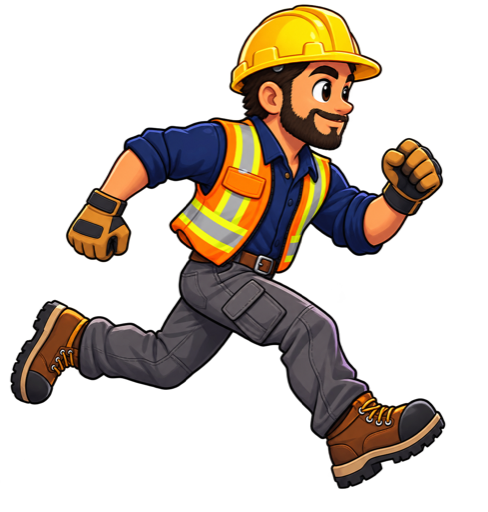
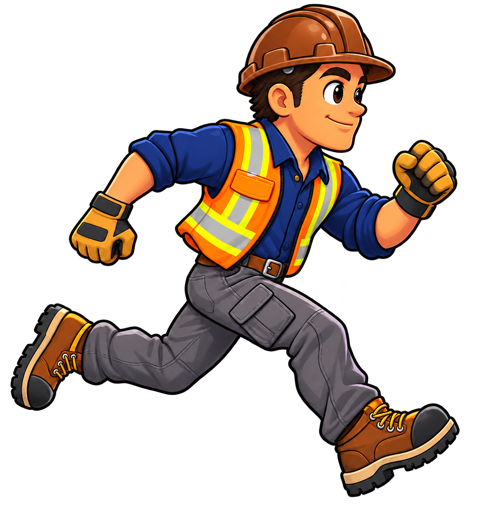
art: update Mr. BB appearance

Changed region(s): [[0.0, 0.0, 0.9529, 0.9688]]

diff --git a/art/IMAGEGEN-PROMPTS.md b/art/IMAGEGEN-PROMPTS.md
@@ -4,11 +4,15 @@ Both assets were generated as original artwork for Mr. BB. No Nintendo or Mario 
 
 ## `assets/mr-bb.png`
 
-Mode: `stylized-concept`
+Initial mode: built-in `stylized-concept`
+Current revision modes: built-in `precise-object-edit`, then built-in `background-extraction`
 
 - Generated: 2026-08-31 with OpenAI image generation through Codex
[1 lines of base64/hex data omitted]
+- Revised: 2026-08-31 — clean-shaven face and brown hard hat
[1 lines of base64/hex data omitted]
 - Project usage: included by the project owner under this repository's MIT license
+
+### Initial generation prompt
 
 ```text
 Use case: stylized-concept
@@ -21,13 +25,37 @@ Lighting/mood: bright, energetic, worksite-safe
 Constraints: genuinely transparent background with preserved alpha; original design; no text; no letters; no logos; no trademarks; no watermark; no Mario resemblance; no red cap; no moustache; no extra tools or props; crisp edges
 ```
 
+### Current revision prompts
+
+```text
+Use case: precise-object-edit
+Asset type: existing 2D browser-game character sprite, transparent cutout
+Input image: Image 1 is the edit target.
+Primary request: Change only two details on Mr. BB: (1) remove the entire beard and moustache so his face is completely clean-shaven, with no facial hair and no stubble; (2) recolor the hard hat from yellow to a clearly brown construction hard hat, using a rich medium chestnut-brown color with natural darker shadows and lighter brown highlights.
+Constraints: Preserve the exact same character identity, facial features, expression, running pose, proportions, side-facing direction, orange safety vest, navy shirt, gray pants, gloves, boots, illustration style, crop, edge quality, and genuine transparent background. Keep one character only. Do not modify anything except facial hair removal and hard-hat color. No text, no logo, no watermark.
+Avoid: beard, moustache, goatee, sideburn facial hair, stubble, yellow hard hat, orange hard hat, red hard hat, background, extra objects, extra characters, Mario resemblance.
+```
+
+```text
+Use case: background-extraction
+Asset type: 2D browser-game character sprite, transparent cutout
+Input image: Image 1 is the edit target.
+Primary request: Remove the entire gray-and-white checkerboard background and replace it with genuine transparent alpha.
+Constraints: Preserve the character exactly as shown, including his completely clean-shaven face with no beard, no moustache, and no stubble; preserve the brown hard hat, expression, pose, anatomy, clothing, colors, outlines, lighting, crop, and edge details. Output one isolated full-body character on a truly transparent background. Do not draw or simulate a checkerboard. No shadows outside the character, no text, no logo, no watermark.
+Avoid: any visible background color or pattern, checkerboard pattern, facial hair, yellow hard hat, altered pose, cropped body, extra objects.
+```
+
 ## `public/og.png`
 
-Mode: `ads-marketing`
+Initial mode: built-in `ads-marketing`
+Current revision mode: built-in `precise-object-edit`
 
 - Generated: 2026-08-31 with OpenAI image generation through Codex
[1 lines of base64/hex data omitted]
+- Revised: 2026-08-31 — clean-shaven face and brown hard hat
[1 lines of base64/hex data omitted]
 - Project usage: included by the project owner under this repository's MIT license
+
+### Initial generation prompt
 
 ```text
 Use case: ads-marketing
@@ -42,4 +70,16 @@ Color palette: Industrial navy and steel blue-gray, accented by safety orange an
 Text (verbatim): "MR. BB" and "DUCT RUN". Render "MR. BB" exactly once as the dominant title (characters: M R period, space, B B). Render "DUCT RUN" exactly once as the supporting copy beneath or near the title. Both strings must be large, crisp, correctly spelled, and fully legible.
 Constraints: Landscape social-card layout; original friendly HVAC worker; yellow hard hat; orange safety vest; both rectangular and spiral shiny ductwork visible; falling gray mastic bucket; bright-orange mastic visible; exact title and supporting copy only.
 Avoid: Any Mario resemblance, red plumber styling, Nintendo characters or assets, copyrighted game characters, extra people, extra words, misspellings, duplicate text, unrelated logos, brand marks, signatures, borders, or watermark.
+```
+
+### Current revision prompt
+
+```text
+Use case: precise-object-edit
+Asset type: existing 16:9 social-preview card for the browser game Mr. BB — Duct Run
+Input image: Image 1 is the edit target.
+Primary request: Change only two details on the running worker: (1) remove his entire beard and moustache so his face is completely clean-shaven, with no facial hair and no stubble; (2) recolor his yellow hard hat to a clearly brown construction hard hat, using a rich medium chestnut-brown color with natural darker shadows and lighter brown highlights.
+Text (verbatim): Preserve "MR. BB" exactly once and "DUCT RUN" exactly once, perfectly spelled and fully legible in the exact existing positions and styles.
+Constraints: Preserve the exact 16:9 composition, worker identity, expression, running pose, anatomy, clothing, orange safety vest, HVAC jobsite, shiny rectangular and spiral ductwork, falling gray mastic bucket, orange mastic splash, lighting, palette, title typography, supporting-copy typography, crop, and overall polished 2D game-illustration style. Do not change anything except facial hair removal and hard-hat color. No new text, logos, signatures, borders, or watermark.
+Avoid: beard, moustache, goatee, stubble, yellow hard hat, orange hard hat, red hard hat, misspelled text, duplicate text, extra people, changed background, changed bucket, changed ducts, Mario resemblance.
 ```
